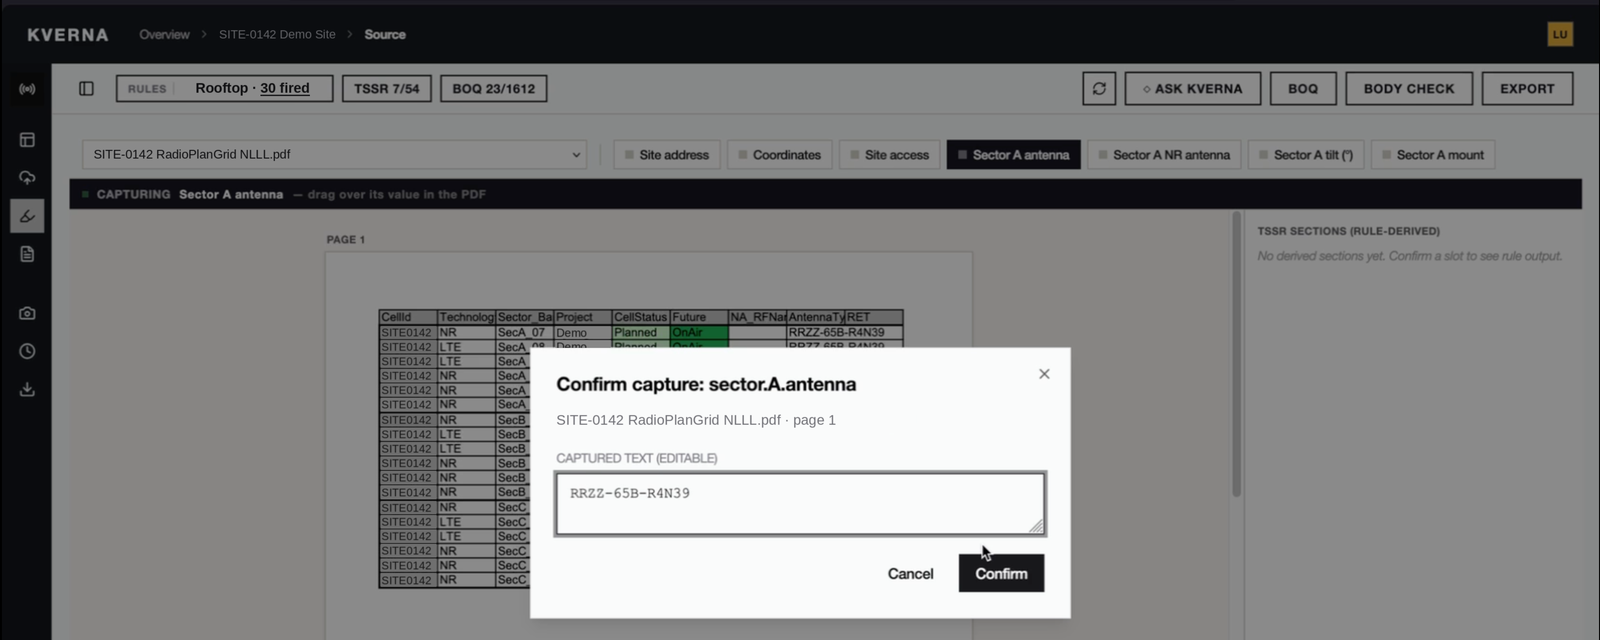
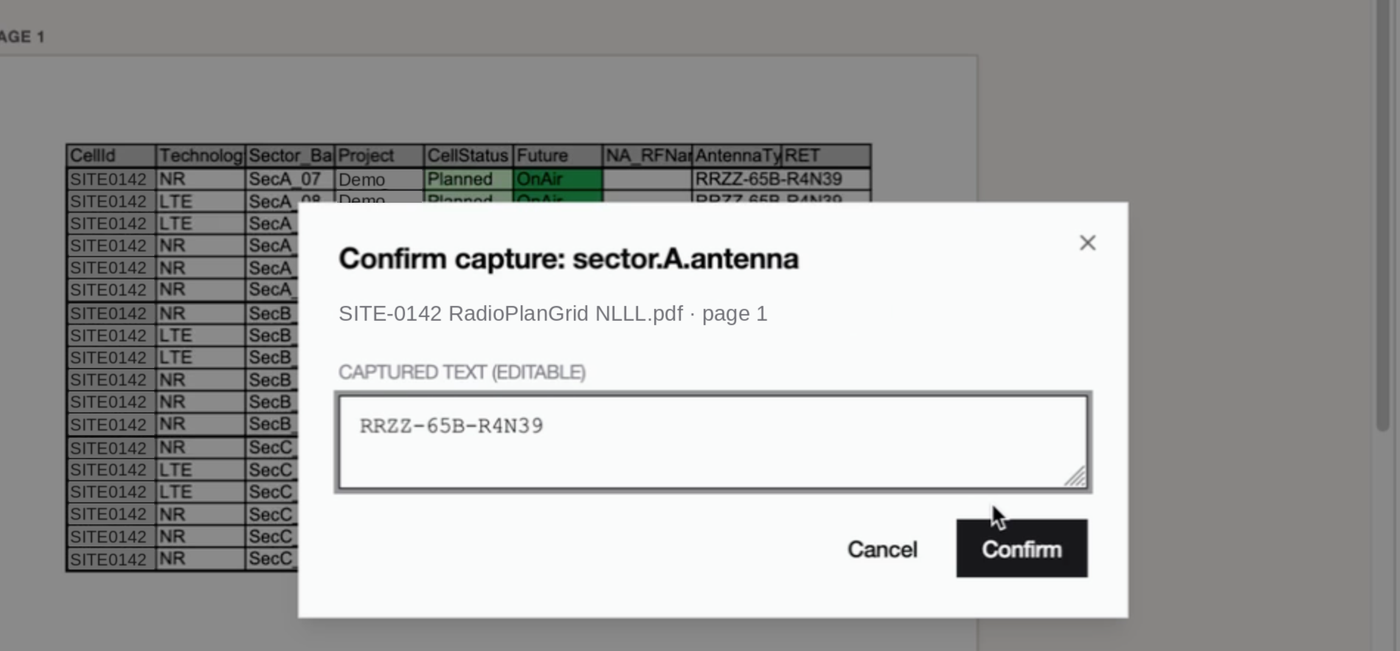
post: Kverna — flow diagram, tighter image crops, built HTML
Claude-Session: https://claude.ai/code/session_01EiPKuhnChPD4iyU9TiVaQT

diff --git a/blog/kverna/index.html b/blog/kverna/index.html
@@ -1,0 +1,124 @@
+<!doctype html>
+<html lang="en">
+<head>
+<meta charset="utf-8">
+<meta name="viewport" content="width=device-width, initial-scale=1">
+<title>Kverna: a document is a view of a fact graph — Lukas Jasinskas</title>
+<meta name="description" content="An engine that produces telecom site documents, shows where each value came from, and lists what is missing instead of guessing. What it does, how it is built, and what is unfinished.">
+<link rel="canonical" href="https://lukasjas.github.io/blog/kverna/">
+<meta property="og:title" content="Kverna: a document is a view of a fact graph — Lukas Jasinskas">
+<meta property="og:description" content="An engine that produces telecom site documents, shows where each value came from, and lists what is missing instead of guessing. What it does, how it is built, and what is unfinished.">
+<meta property="og:url" content="https://lukasjas.github.io/blog/kverna/">
+<link rel="stylesheet" href="/styles.css">
+</head>
+<body>
+<header>
+  <a class="wordmark" href="/">Lukas Jasinskas</a>
+  <nav><a href="/blog">Blog</a><a href="https://github.com/lukasjas">GitHub</a></nav>
+</header>
+<main>
+<article>
+<h1>Kverna: a document is a view of a fact graph</h1>
+<time datetime="2026-10-04">4 October 2026</time>
+<p>Kverna is an application I built between March and June 2026. It produces two documents for a
+mobile network site: the technical site survey report (TSSR), which describes what will be built
+and where, and the bill of quantities (BOQ), which lists every item needed to build it.</p>
+<p>It does that under two constraints. Every value in the output can be traced to where it came from.
+Anything that cannot be derived is listed as missing, with a reason, and is never filled in.</p>
+<p>The code is at <a href="https://github.com/lukasjas/kverna">github.com/lukasjas/kverna</a>.</p>
+<h2>The problem</h2>
+<p>I wrote these documents by hand for about a year, for a Norwegian mobile operator. The TSSR is a
+Word file and the BOQ is an Excel file. The same value appears in several places across both. The
+number of sectors on a site decides the number of radios, which decides cable counts, which decide
+BOQ lines. Change one and you update the rest yourself.</p>
+<p>Nothing checks that you did. Nothing checks that the document is complete either. The operator&#39;s
+reviewer finds out, the document comes back, and by then the crew has left the site.</p>
+<h2>The model</h2>
+<p>Kverna treats the document as a view, not as the thing you edit.</p>
+<p><img src="/images/kverna/flow.svg" alt="Diagram: sources feed facts, facts trigger rules, rules derive more facts, documents are rendered from the current facts, and required facts that are absent are listed as missing."></p>
+<p><strong>Facts.</strong> A fact is a key and a value: <code>site_configuration = NLLL</code>, <code>antenna_height_m = 24</code>.
+Facts are append-only. A changed value is a new row that supersedes the old one, so the history
+of every value stays in the database. Each fact records its source: typed by the engineer, picked
+from a catalog, highlighted in a source PDF, or derived by a rule.</p>
+<p><strong>Rules.</strong> A rule is a row in a table, not a branch in the code. This is one, abridged:</p>
+<pre><code class="language-json">{
+  &quot;pattern&quot;: &quot;site_configuration&quot;,
+  &quot;condition&quot;: &quot;len(site_configuration) &gt; 1&quot;,
+  &quot;output_key&quot;: &quot;sector_count&quot;,
+  &quot;output_expr&quot;: &quot;len(site_configuration) - 1&quot;,
+  &quot;scope_type&quot;: &quot;operator&quot;,
+  &quot;description&quot;: &quot;Sector count = letters after the prefix.&quot;,
+  &quot;cites&quot;: [
+    { &quot;clause&quot;: &quot;4.1&quot;, &quot;title&quot;: &quot;The site model specification&quot; }
+  ]
+}
+</code></pre>
+<p>When <code>site_configuration</code> is written, the rule fires and writes <code>sector_count</code>. That new fact can
+trigger further rules. The engine repeats until nothing changes. The rule carries a citation to
+the clause of the operator&#39;s specification it implements.</p>
+<p><strong>Documents.</strong> A renderer reads the current facts and fills the template. It has no database
+access and no logic of its own.</p>
+<p>Two rules of precedence matter to the person using it. A value the engineer entered by hand is
+never overwritten by a derived one. And a rule scoped to one operator beats a general rule for the
+same output.</p>
+<h2>The two guarantees</h2>
+<p><strong>Trace.</strong> For any value in the output, <code>trace_fact</code> returns the chain: value, the rule that
+produced it, the facts that rule read, the source of each of those facts, and the specification
+clause the rule cites. Rule inputs are reconstructed from the rule&#39;s expression, not logged at
+write time, so the trace cannot drift from what the rule does.</p>
+<p><img src="/images/kverna/trace.png" alt="The provenance panel for one BOQ quantity: the value 3, the rule that produced it, the input fact it read, and the specification clause the rule cites."></p>
+<p><em>One BOQ quantity, traced: value, rule, input fact, specification clause. Demo data.</em></p>
+<p><strong>Missing.</strong> Each document type has a list of facts it requires, stored as data. <code>list_missing_facts</code>
+returns the required keys that are absent, each with the reason it is required. This mirrors the
+completeness check the operator runs on submission. The engine reports the gap; it does not
+estimate a value to close it.</p>
+<p><img src="/images/kverna/body-check.png" alt="The body check panel listing six missing facts, each with the reason it is required."></p>
+<p><em>The body check: six facts still missing for the TSSR, each with the reason it is required.</em></p>
+<h2>Where the language model sits</h2>
+<p>A language model can read a source document and propose values. Those go into a separate
+<code>candidate_facts</code> table with a pointer to the place in the source they came from. A person confirms a
+candidate before it becomes a fact. The model never writes a value into the final document, and
+the document is rendered from structured data, not generated prose.</p>
+<p>The same gate applies when the engineer captures a value by marking it in a source PDF:</p>
+<p><img src="/images/kverna/confirm-capture.png" alt="A dialog asking the engineer to confirm a value captured from a radio plan PDF before it becomes a fact."></p>
+<p><em>A value marked in a source PDF is confirmed before it becomes a fact.</em></p>
+<p>The cost is slower automation. What it buys is that &quot;a model helped&quot; and &quot;nothing is guessed&quot; can
+both be true.</p>
+<h2>How it is built</h2>
+<ul>
+<li><strong>Backend:</strong> FastAPI on Python 3.12 with raw asyncpg. No ORM, because tenant isolation depends on
+setting a session variable on each connection, and I wanted that explicit.</li>
+<li><strong>Database:</strong> PostgreSQL 16. Every table has a <code>tenant_id</code>, and row-level security does the
+filtering. Schema changes are hand-written SQL migrations.</li>
+<li><strong>Rule expressions:</strong> <code>simpleeval</code>, a sandboxed evaluator. Never <code>eval</code>.</li>
+<li><strong>Frontend:</strong> React, TypeScript, Vite, Tailwind.</li>
+<li><strong>Tests:</strong> the backend suite runs against a real migrated PostgreSQL, each test in a transaction
+that rolls back.</li>
+</ul>
+<p>The services that store facts and evaluate rules contain no telecom terms. Operator knowledge
+lives in rule files, a product catalog, and requirement lists. Each architectural decision, with
+the reason and the condition for revisiting it, is in <code>DECISIONS.md</code>.</p>
+<p>The reference case is a rooftop site I surveyed myself: 248 facts, 44 rules, and its real BOQ
+as the expected output.</p>
+<h2>What is unfinished</h2>
+<ul>
+<li>One site type, one operator. The claim that the engine carries to other document types is
+argued in the design and not yet shown with a second domain.</li>
+<li>The missing-facts check is direct only. If a missing fact could itself be derived from another
+missing fact, it does not walk upstream.</li>
+<li>Rules do not learn. When an engineer overrides a derived value, that is recorded and nothing
+reads it.</li>
+<li>Retrieval over the specification scored 57% on a 100-question test set when I last measured
+it. That is a baseline, not a result.</li>
+<li>No offline mode. A rooftop does not always have signal.</li>
+<li>It has been demonstrated to people in the industry. It has not been used on a live job.</li>
+</ul>
+
+</article>
+<p class="back"><a href="/blog">← All posts</a></p>
+</main>
+<footer>
+  <a href="mailto:lukas.jasinskas77@gmail.com">lukas.jasinskas77@gmail.com</a> · <a href="https://github.com/lukasjas">github.com/lukasjas</a>
+</footer>
+</body>
+</html>

diff --git a/blog/index.html b/blog/index.html
@@ -21,6 +21,11 @@
 <p class="lede">Notes on field work, documentation, and the software in between.</p>
 <ul class="posts">
   <li>
+    <a href="/blog/kverna/">Kverna: a document is a view of a fact graph</a>
+    <time datetime="2026-10-04">4 October 2026</time>
+    <p>An engine that produces telecom site documents, shows where each value came from, and lists what is missing instead of guessing. What it does, how it is built, and what is unfinished.</p>
+  </li>
+  <li>
     <a href="/blog/the-thread-is-the-system-of-record/">The thread is the system of record</a>
     <time datetime="2026-07-29">29 July 2026</time>
     <p>Every field crew I worked on documented the job twice. Once properly, once in the group chat. Only one of them was accurate.</p>

diff --git a/index.html b/index.html
@@ -26,6 +26,11 @@ behind it.</p>
 <h2>Writing</h2>
 <ul class="posts">
   <li>
+    <a href="/blog/kverna/">Kverna: a document is a view of a fact graph</a>
+    <time datetime="2026-10-04">4 October 2026</time>
+    <p>An engine that produces telecom site documents, shows where each value came from, and lists what is missing instead of guessing. What it does, how it is built, and what is unfinished.</p>
+  </li>
+  <li>
     <a href="/blog/the-thread-is-the-system-of-record/">The thread is the system of record</a>
     <time datetime="2026-07-29">29 July 2026</time>
     <p>Every field crew I worked on documented the job twice. Once properly, once in the group chat. Only one of them was accurate.</p>

diff --git a/posts/2026-10-04-kverna.md b/posts/2026-10-04-kverna.md
@@ -2,7 +2,7 @@
 title: Kverna: a document is a view of a fact graph
 date: 2026-10-04
 summary: An engine that produces telecom site documents, shows where each value came from, and lists what is missing instead of guessing. What it does, how it is built, and what is unfinished.
-draft: true
+draft: false
 ---
 
 Kverna is an application I built between March and June 2026. It produces two documents for a
@@ -28,6 +28,8 @@ reviewer finds out, the document comes back, and by then the crew has left the s
 
 Kverna treats the document as a view, not as the thing you edit.
 
+![Diagram: sources feed facts, facts trigger rules, rules derive more facts, documents are rendered from the current facts, and required facts that are absent are listed as missing.](/images/kverna/flow.svg)
+
 **Facts.** A fact is a key and a value: `site_configuration = NLLL`, `antenna_height_m = 24`.
 Facts are append-only. A changed value is a new row that supersedes the old one, so the history
 of every value stays in the database. Each fact records its source: typed by the engineer, picked
@@ -42,8 +44,10 @@ from a catalog, highlighted in a source PDF, or derived by a rule.
   "output_key": "sector_count",
   "output_expr": "len(site_configuration) - 1",
   "scope_type": "operator",
-  "description": "Active sector count = number of site-model letters after the contract-type prefix. 'NLLL' resolves to 3 sectors.",
-  "cites": [{ "clause": "4.1", "title": "The site model specification" }]
+  "description": "Sector count = letters after the prefix.",
+  "cites": [
+    { "clause": "4.1", "title": "The site model specification" }
+  ]
 }
 ```
 
@@ -74,7 +78,7 @@ returns the required keys that are absent, each with the reason it is required. 
 completeness check the operator runs on submission. The engine reports the gap; it does not
 estimate a value to close it.
 
-![The BOQ on the left and the body check on the right, listing six missing facts, each with the reason it is required.](/images/kverna/body-check.png)
+![The body check panel listing six missing facts, each with the reason it is required.](/images/kverna/body-check.png)
 
 *The body check: six facts still missing for the TSSR, each with the reason it is required.*
 
